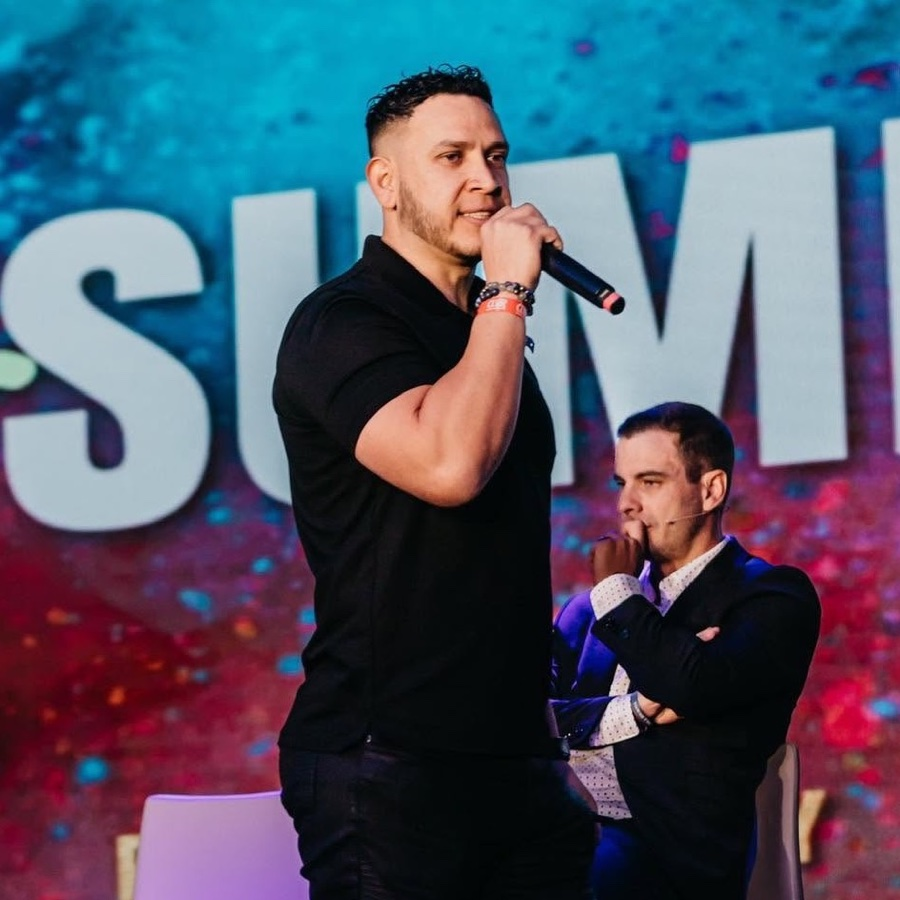
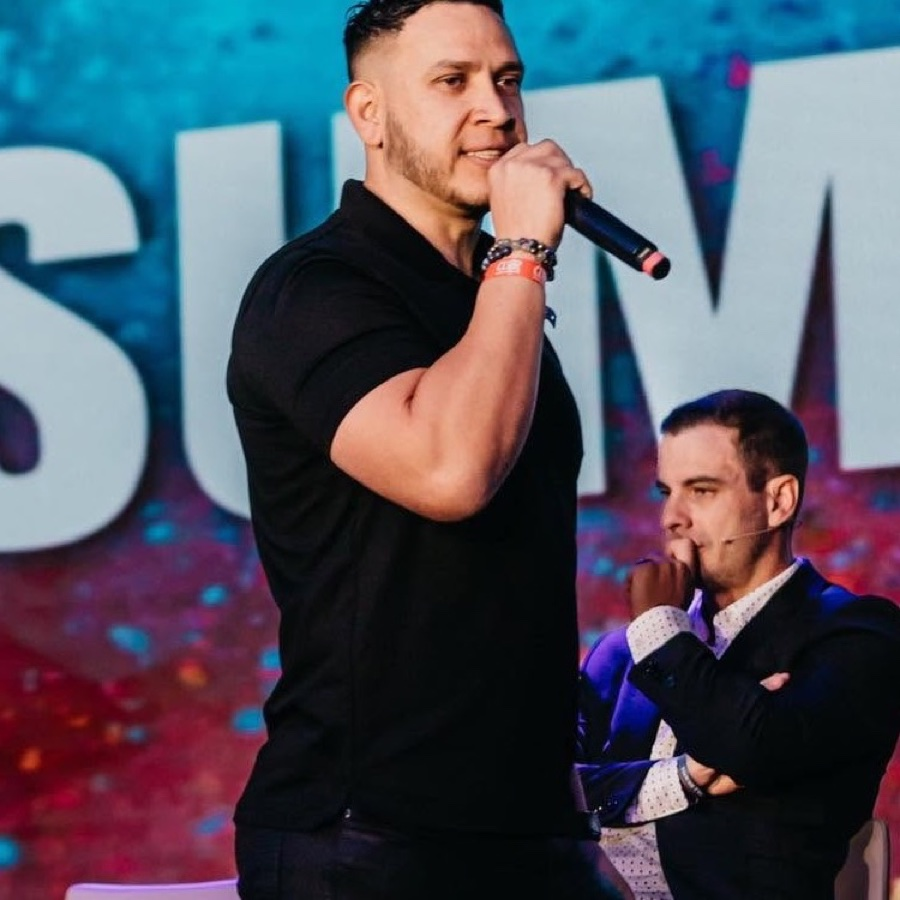
Recrop industry leader photos for waist-up framing, add cohesive tint
- Ismael, Danny, David: widened crops to show waist-up instead of
  tight face-only crops (Ismael's crop necessarily brings in more of
  flanking colleagues in the group photo, a physical tradeoff of
  showing more of his body in a square crop)
- Carlos: zoomed in slightly per request
- Added a subtle desaturation + brand-accent multiply overlay on all
  leader-spotlight and quote-card photos so the varied source photos
  (event photo, indoor portrait, stage shot) read as one cohesive set

diff --git a/css/style.css b/css/style.css
@@ -1351,12 +1351,27 @@ section { position: relative; padding: clamp(70px, 10vw, 140px) var(--edge); }
 }
 
 .quote-card__photo {
+  position: relative;
   width: 100%;
   aspect-ratio: 1/1;
   overflow: hidden;
   background: #eee;
 }
-.quote-card__photo img { width: 100%; height: 100%; object-fit: cover; }
+.quote-card__photo img {
+  width: 100%;
+  height: 100%;
+  object-fit: cover;
+  filter: grayscale(40%) contrast(1.08) brightness(0.98);
+}
+.quote-card__photo::after {
+  content: '';
+  position: absolute;
+  inset: 0;
+  background: var(--accent);
+  opacity: 0.18;
+  mix-blend-mode: multiply;
+  pointer-events: none;
+}
 .quote-card__photo .img-placeholder { font-size: 10px; }
 
 .quote-card blockquote {
@@ -1404,11 +1419,26 @@ section { position: relative; padding: clamp(70px, 10vw, 140px) var(--edge); }
 }
 
 .leader-spotlight__photo {
+  position: relative;
   aspect-ratio: 1/1;
   overflow: hidden;
   background: #eee;
 }
-.leader-spotlight__photo img { width: 100%; height: 100%; object-fit: cover; }
+.leader-spotlight__photo img {
+  width: 100%;
+  height: 100%;
+  object-fit: cover;
+  filter: grayscale(40%) contrast(1.08) brightness(0.98);
+}
+.leader-spotlight__photo::after {
+  content: '';
+  position: absolute;
+  inset: 0;
+  background: var(--accent);
+  opacity: 0.18;
+  mix-blend-mode: multiply;
+  pointer-events: none;
+}
 
 .leader-spotlight__eyebrow {
   font-family: var(--font-label);
